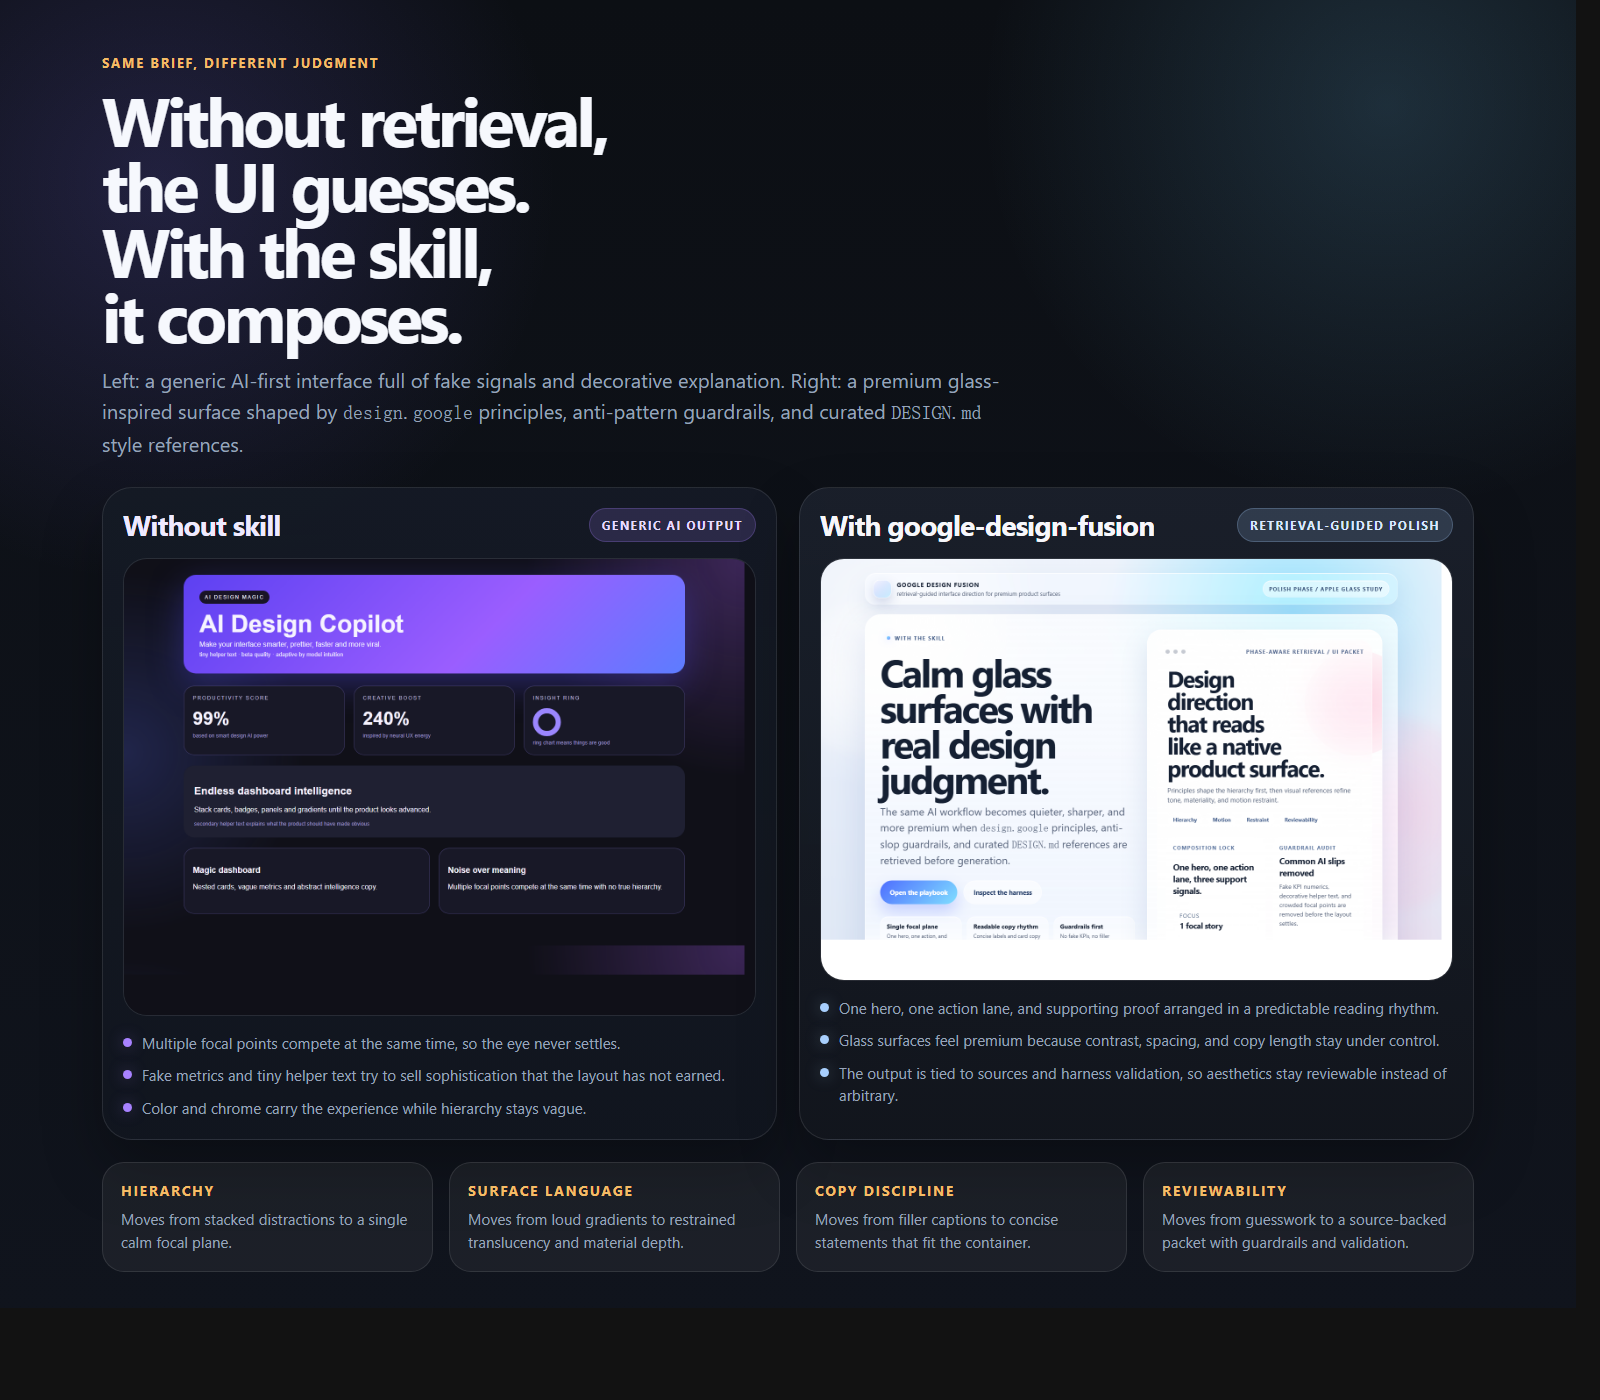
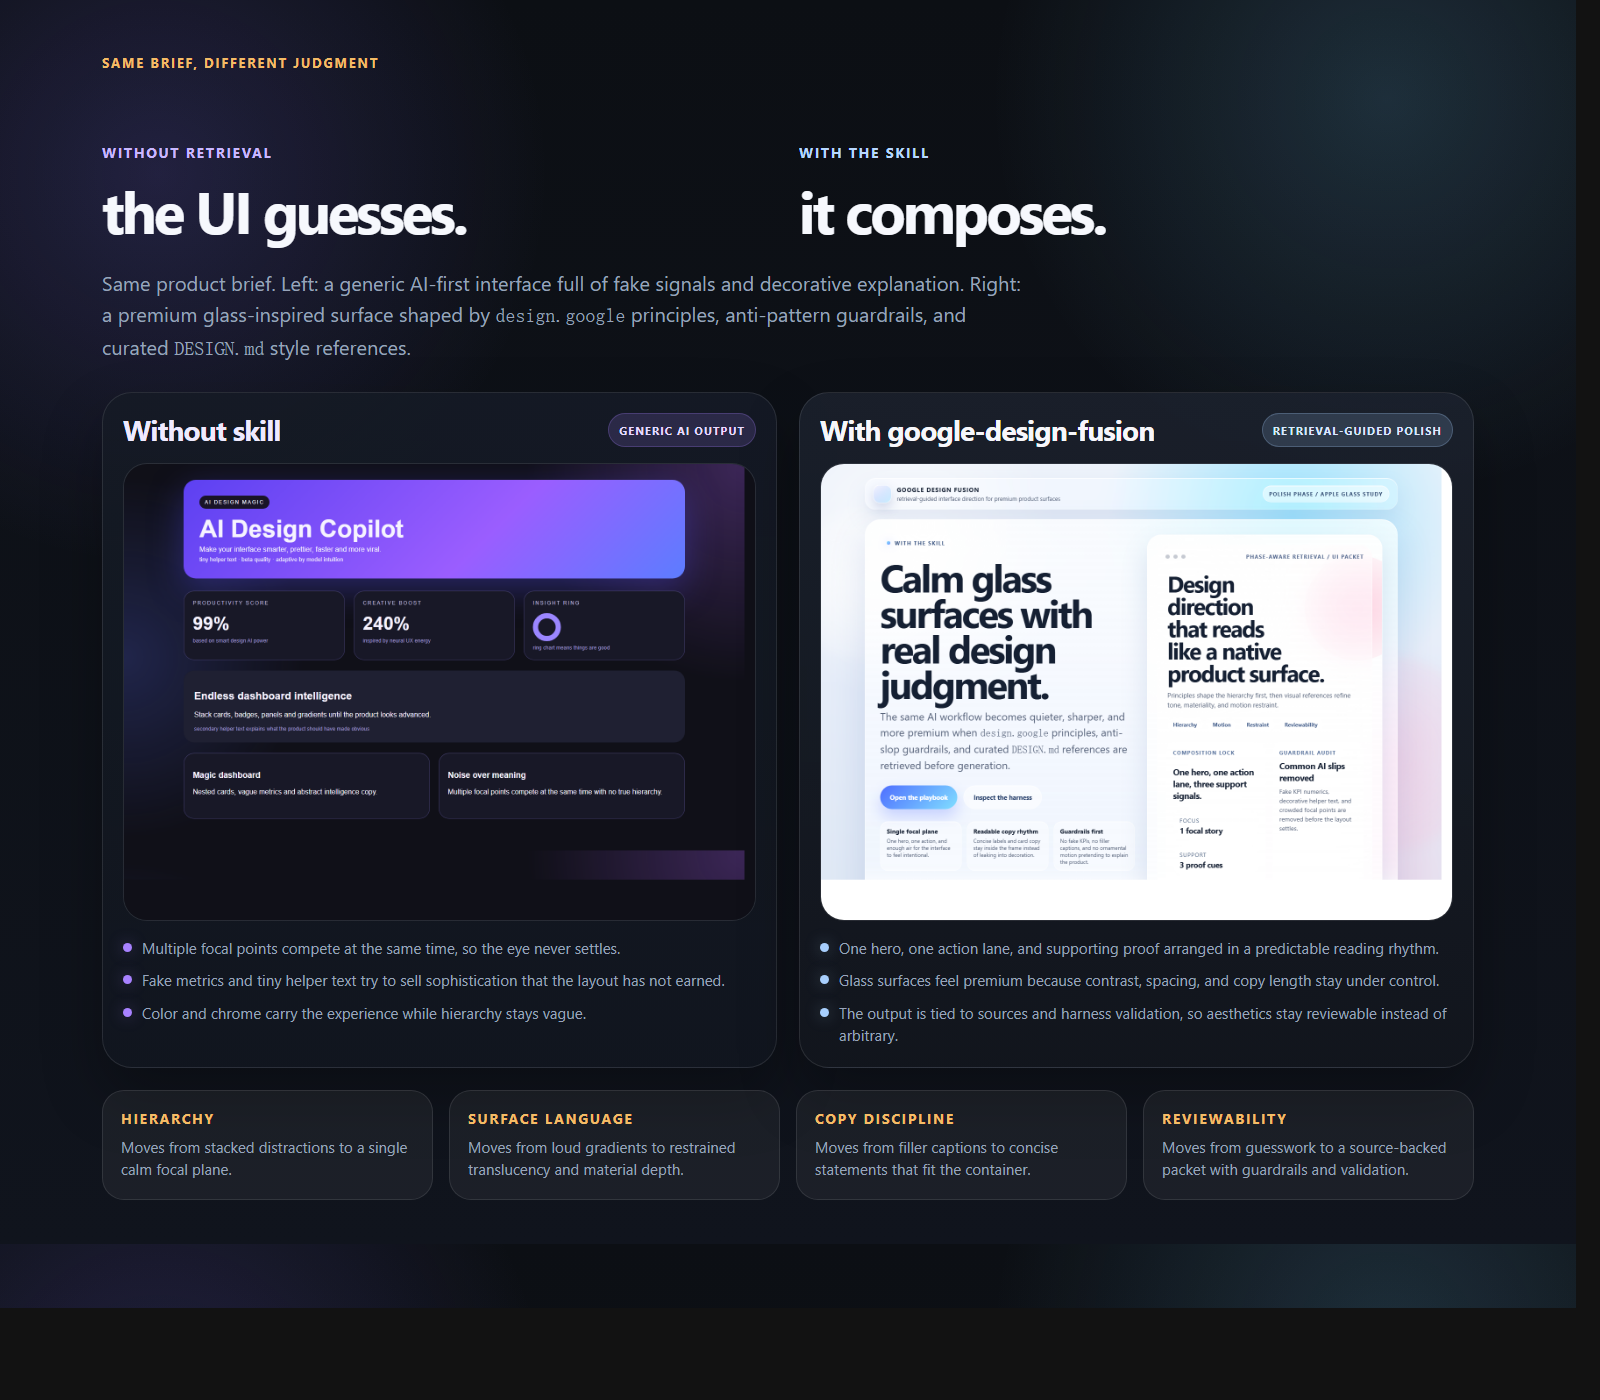
docs: add bilingual README and refine comparison typography

Changed region(s): [[0.0625, 0.0614, 0.9062, 0.8907], [0.0625, 0.6757, 0.4688, 0.8907], [0.8438, 0.9214, 0.875, 0.9521]]

diff --git a/examples/comparison/index.html b/examples/comparison/index.html
@@ -50,13 +50,46 @@
       color: var(--accent);
     }
 
-    h1 {
+    .intro-grid {
+      display: grid;
+      grid-template-columns: repeat(2, minmax(0, 1fr));
+      gap: 22px;
+      align-items: stretch;
+    }
+
+    .intro-side {
+      min-width: 0;
+      padding: 18px 0 12px;
+      display: grid;
+      gap: 10px;
+      align-content: end;
+      min-height: 164px;
+    }
+
+    .intro-kicker {
+      margin: 0 0 10px;
+      font-size: 14px;
+      font-weight: 700;
+      letter-spacing: 0.12em;
+      text-transform: uppercase;
+      overflow-wrap: anywhere;
+    }
+
+    .intro-side.bad .intro-kicker {
+      color: #c9b8ff;
+    }
+
+    .intro-side.good .intro-kicker {
+      color: #b7d8ff;
+    }
+
+    .intro-title {
       margin: 0;
-      max-width: 14ch;
-      font-size: clamp(44px, 5.4vw, 68px);
-      line-height: 0.96;
+      max-width: none;
+      font-size: clamp(40px, 4.4vw, 58px);
+      line-height: 0.98;
       letter-spacing: -0.05em;
-      text-wrap: balance;
+      white-space: nowrap;
     }
 
     .lead {
@@ -97,20 +130,21 @@
     }
 
     .panel-header strong {
-      font-size: 28px;
-      line-height: 1;
+      font-size: clamp(22px, 2vw, 28px);
+      line-height: 0.98;
       letter-spacing: -0.03em;
+      min-width: 0;
     }
 
     .panel-header span {
       display: inline-flex;
       align-items: center;
       min-height: 34px;
-      padding: 0 12px;
+      padding: 0 10px;
       border-radius: 999px;
-      font-size: 12px;
+      font-size: 11px;
       font-weight: 700;
-      letter-spacing: 0.12em;
+      letter-spacing: 0.1em;
       text-transform: uppercase;
       white-space: nowrap;
     }
@@ -219,6 +253,7 @@
     }
 
     @media (max-width: 1100px) {
+      .intro-grid,
       .comparison-grid,
       .delta-grid {
         grid-template-columns: 1fr;
@@ -235,8 +270,17 @@
   <div class="page">
     <section class="intro">
       <div class="eyebrow">Same brief, different judgment</div>
-      <h1>Without retrieval, the UI guesses. With the skill, it composes.</h1>
-      <p class="lead">Left: a generic AI-first interface full of fake signals and decorative explanation. Right: a premium glass-inspired surface shaped by <code>design.google</code> principles, anti-pattern guardrails, and curated <code>DESIGN.md</code> style references.</p>
+      <div class="intro-grid">
+        <div class="intro-side bad">
+          <p class="intro-kicker">Without retrieval</p>
+          <h1 class="intro-title">the UI guesses.</h1>
+        </div>
+        <div class="intro-side good">
+          <p class="intro-kicker">With the skill</p>
+          <h1 class="intro-title">it composes.</h1>
+        </div>
+      </div>
+      <p class="lead">Same product brief. Left: a generic AI-first interface full of fake signals and decorative explanation. Right: a premium glass-inspired surface shaped by <code>design.google</code> principles, anti-pattern guardrails, and curated <code>DESIGN.md</code> style references.</p>
     </section>
 
     <section class="comparison-grid">

diff --git a/README.zh-CN.md b/README.zh-CN.md
@@ -1,0 +1,258 @@
+<div align="center">
+  <img src="./assets/logo.svg" width="124" alt="Google Design Fusion logo" />
+  <h1>Google Design Fusion</h1>
+  <p><strong>一个开源 Codex Skill：把 <code>design.google</code> 的完整设计思想体系，与精选的 <code>awesome-design-md</code> / <code>DESIGN.md</code> 风格参考库融合起来，再通过检索驱动的方式打通前端设计工作流。</strong></p>
+  <p><a href="./README.md">English</a> | <a href="./README.zh-CN.md">简体中文</a></p>
+</div>
+
+![前后对比图](./assets/screenshots/comparison.png)
+
+## 它是什么
+
+`google-design-fusion` 不是一个简单的提示词包装器，也不是一堆零散笔记。
+
+它是一套完整封装的 skill 系统，包含：
+
+- 基于 `design.google` 构建的本地设计语料库
+- 基于 `awesome-design-md` 融合出来的风格层
+- 能按设计阶段切换行为的检索 harness
+- 针对常见 AI 前端错误的 anti-AI-slop guardrails
+- 用于保证 skill、harness 和文档一致性的校验脚本
+
+目标很直接：让 AI 生成的前端结果更有设计判断力、更可复核，也更少“套壳感”。
+
+## 它来自哪里
+
+这个仓库是有意识地把两套来源系统融合在一起。
+
+### 1. 判断层
+
+来源：
+
+- `design.google` 的完整可抓取内容面
+- 旧版 `design.google` 页面中链接出去的高价值外部文章
+
+这一层提供：
+
+- 层级与注意力设计
+- 把动效当作意义表达，而不是装饰
+- 排版、可读性与可访问性判断
+- AI 信任、可解释性与以人为中心的交互思路
+- 在需要时覆盖 ambient、硬件和 XR 场景约束
+
+### 2. 风格层
+
+来源：
+
+- `awesome-design-md`
+
+这一层提供：
+
+- 视觉氛围
+- 字体个性
+- 密度与节奏
+- 表面语言
+- 组件气质与构图参考
+
+一句话概括：
+
+`design.google` 提供判断，`awesome-design-md` 提供风格种子，这个 skill 负责把两者融合成一个检索驱动的设计工作流。
+
+## 为什么要做这个
+
+大多数 AI 前端结果还在反复掉进同一批坑里：
+
+- 没有产品意义的假 KPI 卡片
+- 用很小的说明文字去弥补层级问题
+- 一个页面里同时出现太多视觉焦点
+- 靠装饰性渐变来承担解释工作
+- 把动效当装饰，不当引导
+- 看起来像组件库拼装，却被当作“完成版设计”
+
+这个 skill 做的是把设计工作前移：
+
+1. 先检索更强的设计证据
+2. 先拦截常见反模式
+3. 把“原则判断”和“风格参考”拆开
+4. 再返回一个能用于 concept、UI、polish、audit 的可用设计包
+
+## 已验证价值
+
+当前仓库内置的语料规模：
+
+- `328` 条来自 `design.google` 站点地图与补充恢复流程的抓取记录
+- `248` 个已索引的 `design.google` 页面
+- `32` 个已索引的高价值外部参考页面
+- `54` 个 `awesome-design-md` 样本
+- `6457` 个本地检索 chunk
+
+生成后的本地向量库被直接纳入仓库，是因为它本身就是这个 skill 的实际价值组成部分，而不只是构建产物。
+
+## 前后对照
+
+仓库里包含以下演示素材：
+
+- 不使用 skill 的示例页：[examples/without-skill/index.html](./examples/without-skill/index.html)
+- 使用 skill 的示例页：[examples/with-skill/index.html](./examples/with-skill/index.html)
+- 对照展示页：[examples/comparison/index.html](./examples/comparison/index.html)
+- 渲染后的对照图：[assets/screenshots/comparison.png](./assets/screenshots/comparison.png)
+
+可观察到的差异：
+
+| 不使用 skill | 使用 `google-design-fusion` |
+| --- | --- |
+| 信息噪音堆叠、假指标、装饰性说明字过多 | 单一主叙事更明确，层级更清楚，支撑信息更克制 |
+| 风格主要靠默认猜测 | 风格由检索到的参考进行引导 |
+| 没有来源链路 | 结果可以回溯到证据包 |
+| 很容易滑向 AI slop | guardrails 会显式拦截常见错误 |
+
+## 架构
+
+整个仓库按分层 skill runtime 来组织。
+
+### Corpus Builder
+
+实现位置：
+
+- [skills/google-design-fusion/scripts/build_design_fusion_vector_db.py](./skills/google-design-fusion/scripts/build_design_fusion_vector_db.py)
+
+职责：
+
+- 抓取 `design.google`
+- 保留 canonical 与 redirect 信息
+- 选择性纳入稳定的高价值外部设计参考
+- 纳入 `awesome-design-md`
+- 构建 chunk 化的稀疏检索索引和 manifest 元数据
+
+### Retrieval Harness
+
+实现位置：
+
+- [skills/google-design-fusion/scripts/design_harness.py](./skills/google-design-fusion/scripts/design_harness.py)
+
+职责：
+
+- 按设计阶段分类请求
+- 查询融合后的本地语料
+- 结合阶段 profile 对结果加权
+- 注入 anti-pattern guardrails
+- 返回可复用的设计 packet
+
+### Skill Surface
+
+实现位置：
+
+- [skills/google-design-fusion/SKILL.md](./skills/google-design-fusion/SKILL.md)
+- [skills/google-design-fusion/agents/openai.yaml](./skills/google-design-fusion/agents/openai.yaml)
+
+职责：
+
+- 教会模型何时以及如何使用语料库
+- 区分 research、concept、wireframe、ui、polish、audit 的不同行为
+- 让基于来源的设计推理保持可见
+
+### Validation Layer
+
+实现位置：
+
+- [skills/google-design-fusion/scripts/validate_skill_contract.py](./skills/google-design-fusion/scripts/validate_skill_contract.py)
+- [skills/google-design-fusion/scripts/validate_harness.py](./skills/google-design-fusion/scripts/validate_harness.py)
+- [skills/google-design-fusion/scripts/validate_workspace_docs.py](./skills/google-design-fusion/scripts/validate_workspace_docs.py)
+- [skills/google-design-fusion/scripts/run_full_validation.py](./skills/google-design-fusion/scripts/run_full_validation.py)
+
+职责：
+
+- 校验 skill 打包是否正确
+- 校验 harness 行为是否符合预期
+- 校验文档是否与真实语料输出一致
+
+## Harness 机制
+
+harness 是这个 skill 的运行核心。
+
+它按四步工作：
+
+1. **先构建本地库**
+   corpus builder 会把 `design.google`、筛选后的外部参考，以及 `awesome-design-md` 融合成本地索引。
+
+2. **按阶段分类请求**
+   请求会被映射到 `research`、`concept`、`wireframe`、`ui`、`polish` 或 `audit`。
+
+3. **按阶段规则检索**
+   harness 会应用阶段 profile、来源权重和每页上限控制，因此 `audit` 不会像 `ui` 一样检索，`polish` 也不会像 `research` 一样工作。
+
+4. **返回设计 packet**
+   输出里会包含阶段目标、排序后的证据、anti-pattern guardrails，以及按页面去重后的参考来源。
+
+这也是它和普通 prompt template 的核心区别：模型不是只靠“感觉”生成，而是被检索结果实质性地约束。
+
+## Anti-Pattern Guardrails
+
+这个 skill 显式约束了多类常见 AI 前端错误，包括：
+
+- 没有意义的 KPI 数字
+- 破坏审美平衡的小号解释文字
+- 过度密集的卡片网格
+- 没有产品角色的装饰性动效
+- 缺乏层级纪律的风格混搭
+- 看起来精致但没有来源依据的输出
+
+相关研究：
+
+- [research/ai-design-antipatterns.md](./research/ai-design-antipatterns.md)
+
+## 仓库结构
+
+```text
+skills/google-design-fusion/
+  SKILL.md
+  agents/openai.yaml
+  references/
+  scripts/
+google-design-vector-db/
+research/
+examples/
+assets/
+README.md
+README.zh-CN.md
+```
+
+## 快速开始
+
+克隆仓库，把 skill 放进你的 Codex skills 目录，然后重启 Codex。
+
+如果你想在本地重建或检查：
+
+```bash
+python skills/google-design-fusion/scripts/build_design_fusion_vector_db.py
+python skills/google-design-fusion/scripts/design_harness.py "premium glassmorphism landing page with calmer hierarchy" --phase ui --top-k 8
+python skills/google-design-fusion/scripts/run_full_validation.py
+```
+
+## 研究文档
+
+关键支撑文档包括：
+
+- [research/design-google-site-map.md](./research/design-google-site-map.md)
+- [research/design-google-principles.md](./research/design-google-principles.md)
+- [research/google-design-awesome-fusion.md](./research/google-design-awesome-fusion.md)
+- [research/ai-design-antipatterns.md](./research/ai-design-antipatterns.md)
+- [research/validation-report.md](./research/validation-report.md)
+
+## 发布说明
+
+外部参考只会在满足更高标准时才被纳入：
+
+- 访问稳定
+- 具有明确的设计学习价值
+- 文本抽取质量可用
+
+视频壳页、弱重定向页、低信息量 landing page 不会进入索引语料。
+
+## 贡献
+
+参见 [CONTRIBUTING.md](./CONTRIBUTING.md)。
+
+## 许可证
+
+MIT。详见 [LICENSE](./LICENSE)。

diff --git a/README.md b/README.md
@@ -2,6 +2,7 @@
   <img src="./assets/logo.svg" width="124" alt="Google Design Fusion logo" />
   <h1>Google Design Fusion</h1>
   <p><strong>An open-source Codex skill that fuses the full <code>design.google</code> idea system with curated <code>awesome-design-md</code> / <code>DESIGN.md</code> style references, then turns that fusion into a retrieval-backed front-end design workflow.</strong></p>
+  <p><a href="./README.md">English</a> | <a href="./README.zh-CN.md">简体中文</a></p>
 </div>
 
 ![Before and after comparison](./assets/screenshots/comparison.png)
@@ -213,6 +214,7 @@ research/
 examples/
 assets/
 README.md
+README.zh-CN.md
 ```
 
 ## Quick Start
